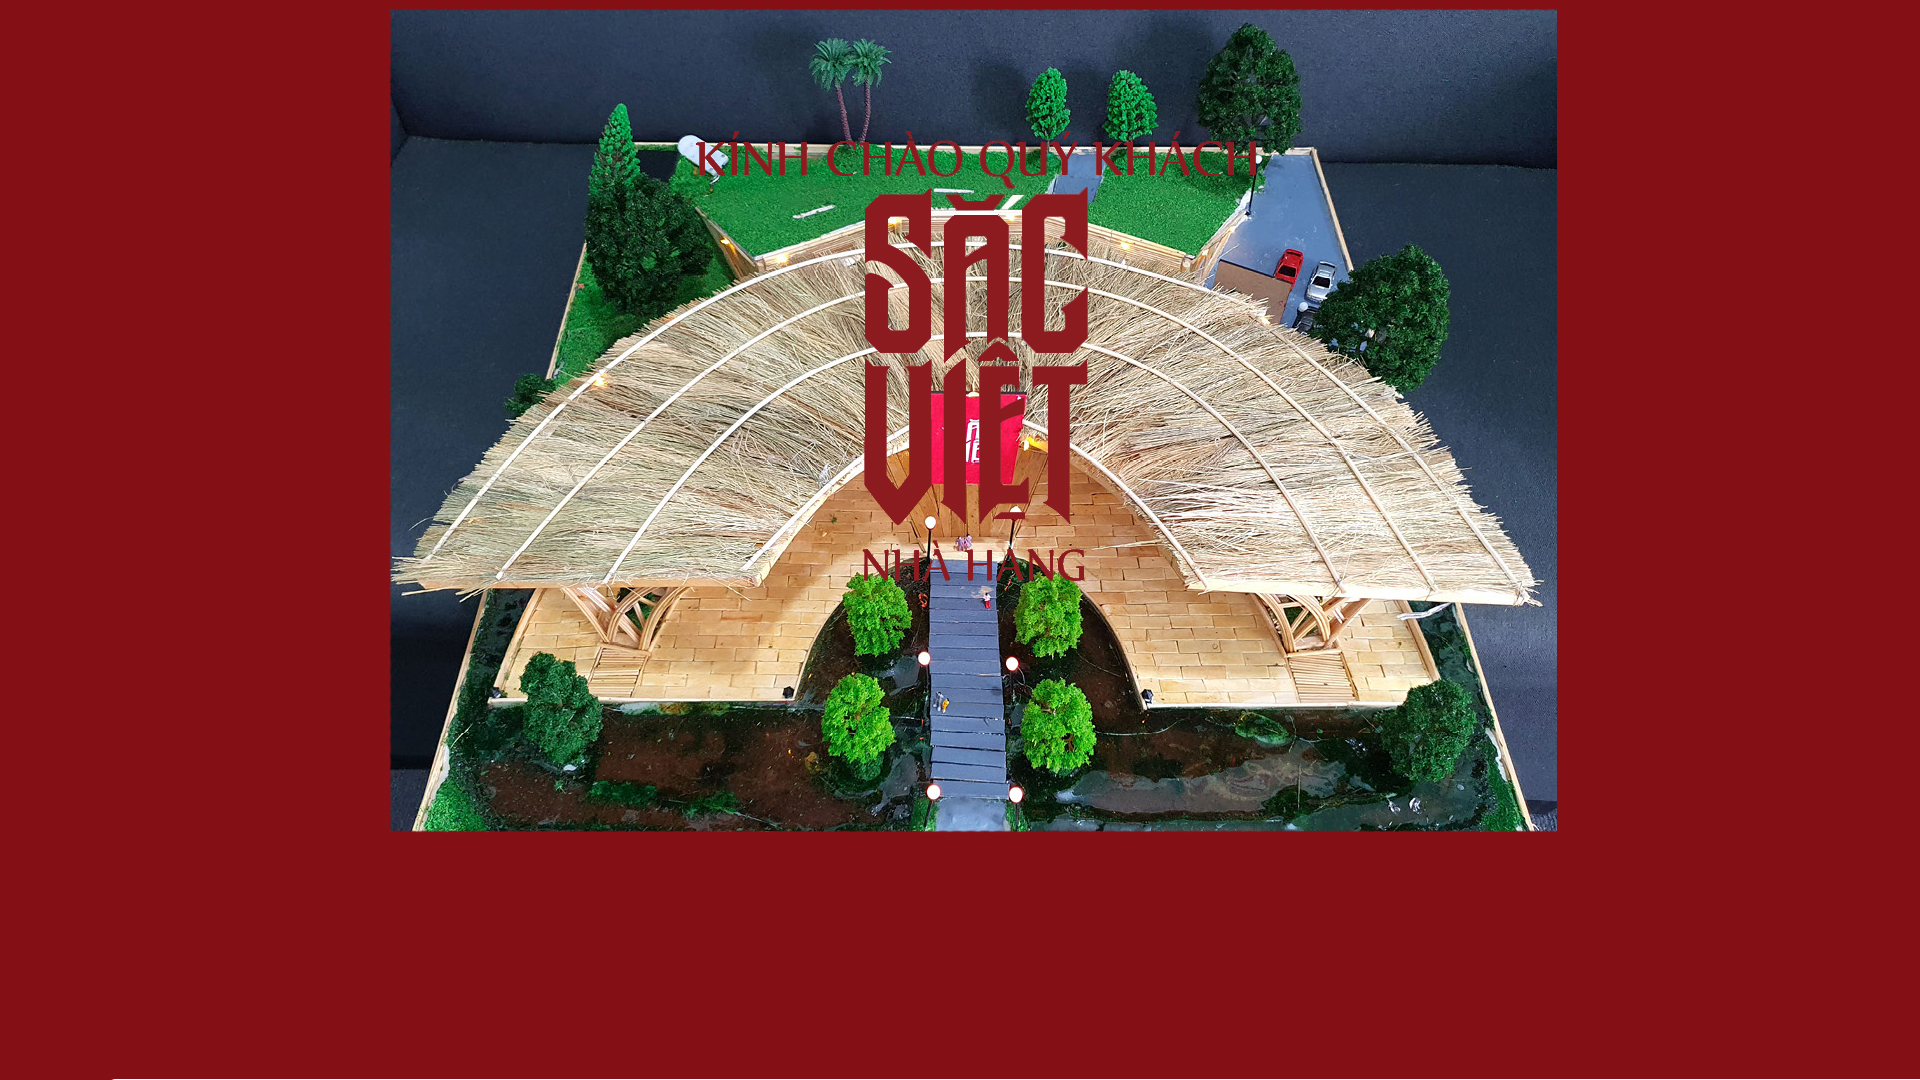
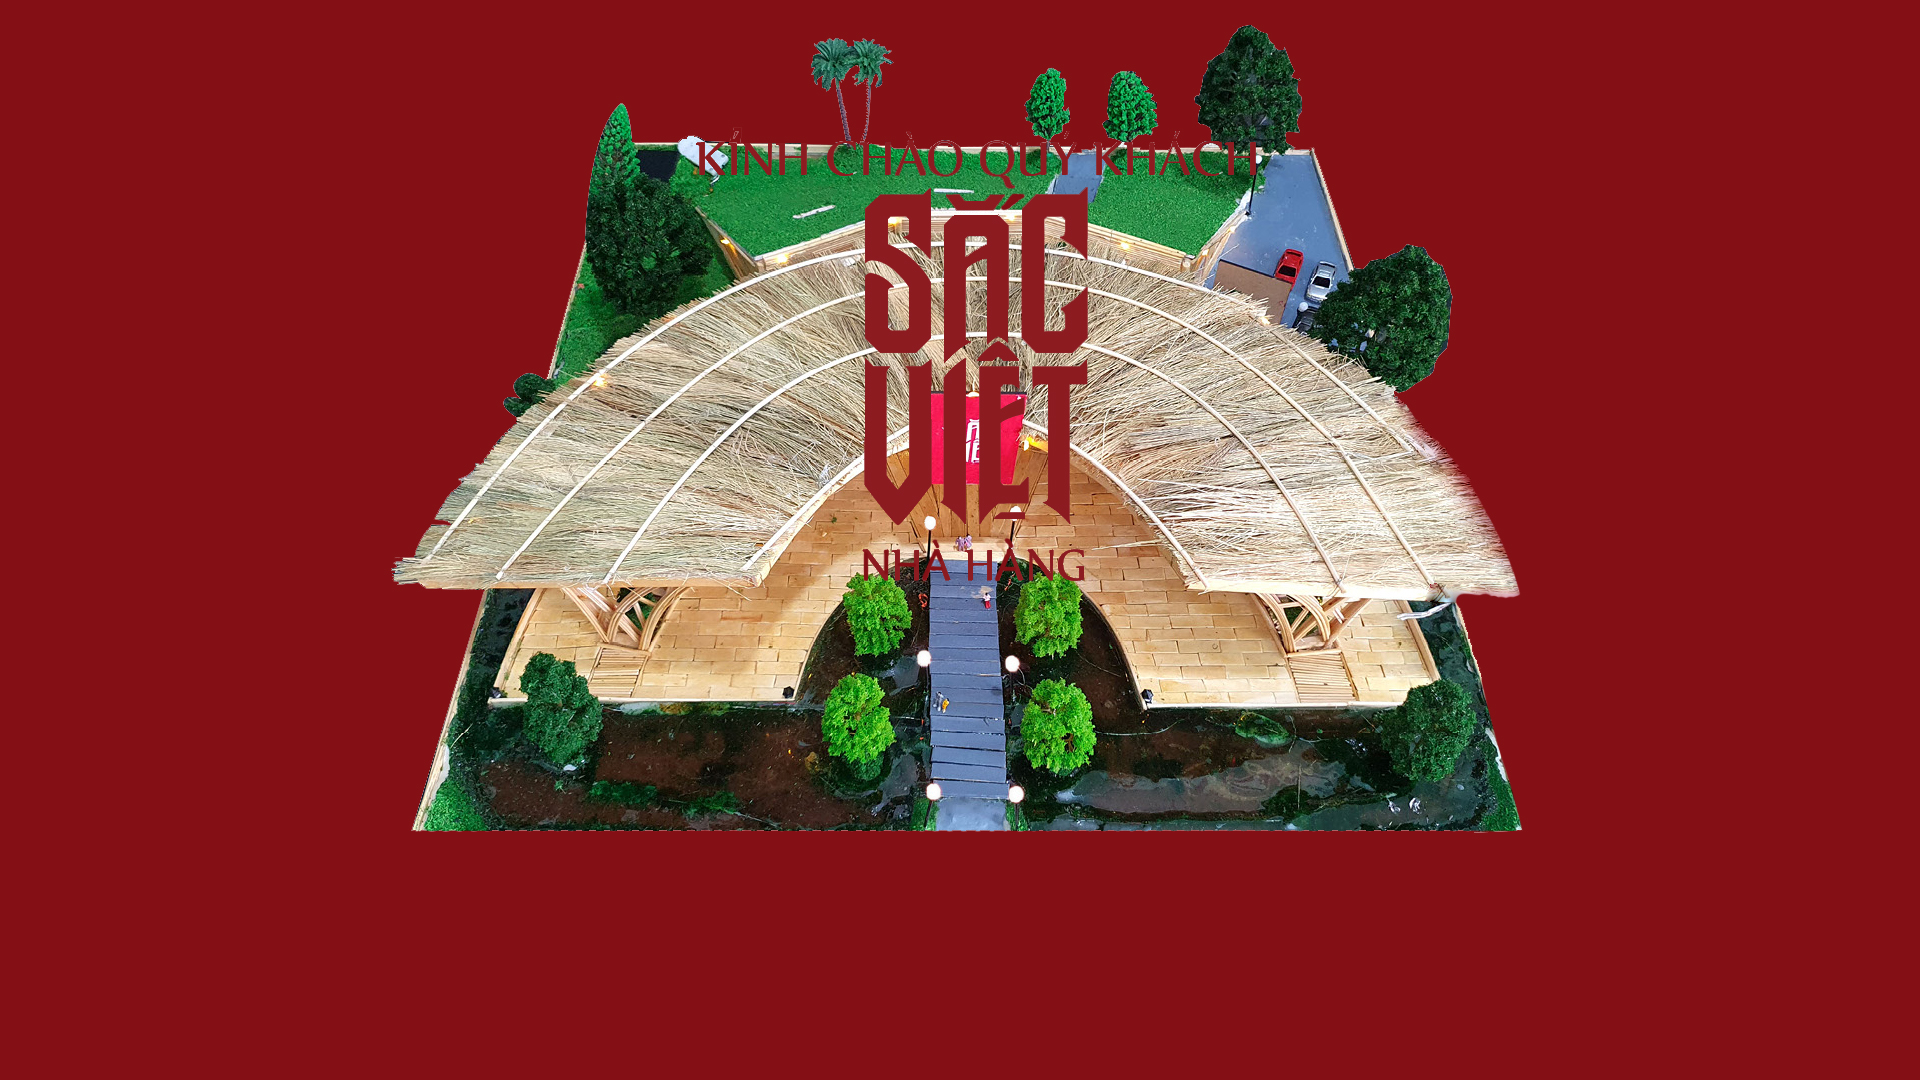
Add files via upload

Changed region(s): [[0.1875, 0.0, 0.8125, 0.7944]]

diff --git a/css/main.css b/css/main.css
@@ -70,10 +70,11 @@ font-family:url("../font/Anton-Regular.ttf");
 
 .container{
 	width: 100%;
-	height: 850px;
+	height: 830px;
 	background-image: url("../image/Slide.nen.jpg");
 	background-size: cover;
-	box-sizing: border-box; 
+	box-sizing: border-box;
+	
 	
 }
 span{
@@ -236,7 +237,7 @@ p:hover {color: dimgrey}
   padding: 12px 16px;
   text-decoration: none;
   display: block;
-  margin-left: 680px;
+  margin-left: 690px;
   border-radius: 35px;
 	text-align: center;
   
@@ -378,7 +379,7 @@ i{
   animation-fill-mode: both;
   text-align: center;
   color: #8c1b20;
-  margin-left: 940px;
+  margin-left: 935px;
   font-size: 35px;
 	font-family: Constantia, "Lucida Bright", "DejaVu Serif", Georgia, "serif";
 }

diff --git a/index.html b/index.html
@@ -17,8 +17,8 @@
 
 	<div class="container">
 		<b>
-		<div class="qc">HÂN<br><br>HẠNH<br><br>PHỤC<br><br>VỤ</div>
-		<div class="qc2">BẢN<br><br>SẮC<br><br>DÂN<br><br>GIAN</div>
+		<div class="qc"><br>HÂN<br>HẠNH<br>PHỤC<br>VỤ</div>
+		<div class="qc2"><br>BẢN<br>SẮC<br>DÂN<br>TỘC</div>
 		</b>
 	
 		<div id="mySidenav" class="sidenav">
